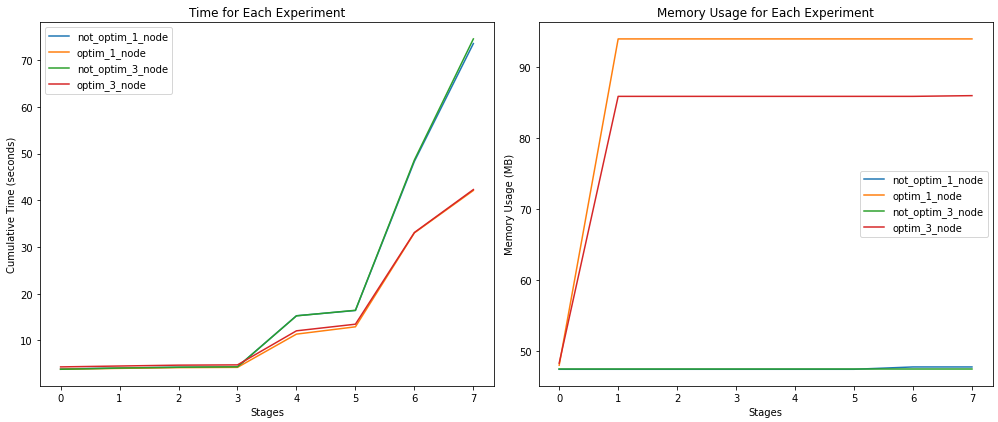
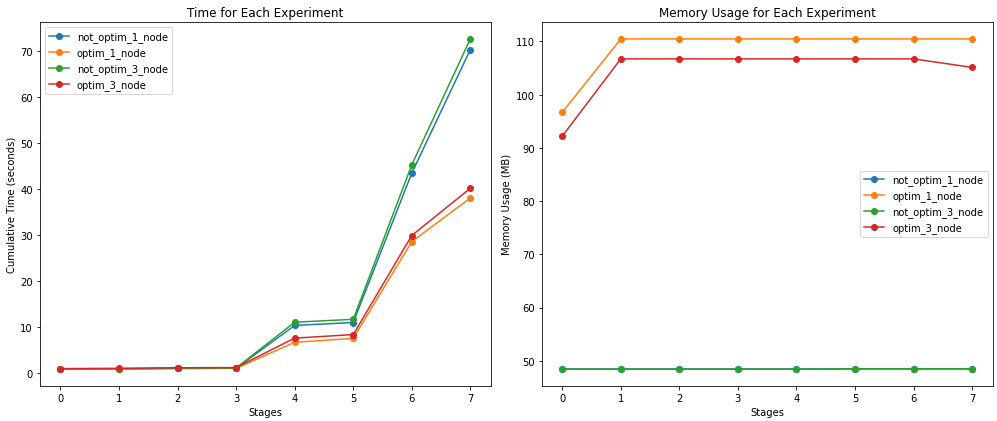
multiple experiments

diff --git a/spark_app.py b/spark_app.py
@@ -3,6 +3,7 @@ import psutil
 import logging
 import os
 import json
+import numpy as np
 from pyspark.sql import SparkSession
 from pyspark.ml.feature import StringIndexer, Tokenizer, StopWordsRemover, HashingTF, IDF
 from pyspark.ml.classification import LogisticRegression
@@ -48,98 +49,107 @@ def main(num_nodes: int, optimize: bool):
 
     spark.sparkContext.setLogLevel("ERROR")
 
-    cumulative_times = []
-    total_mems = []
-    total_time = 0
+    all_times, all_mems = [], []
 
-    @measure_time
-    def load_data():
-        df = spark.read.parquet("hdfs://namenode:9001/user/root/data/Musical_Instruments_5.parquet")
-        return df.dropna(subset=['reviewText']).drop("vote").drop("style").drop("image")
+    for _ in range(20): # num experiments
+        cumulative_times = []
+        total_mems = []
+        total_time = 0
 
-    df = load_data()
-    if optimize:
-        if int(num_nodes) > 1:
-            df = df.repartition(int(num_nodes)).cache()
-        else:
-            df = df.cache()
-    df.show()
-    logger.info("Data loading is done.\n")
-    # df.printSchema()
+        @measure_time
+        def load_data():
+            df = spark.read.parquet("hdfs://namenode:9001/user/root/data/Musical_Instruments_5.parquet")
+            return df.dropna(subset=['reviewText']).drop("vote").drop("style").drop("image")
 
-    if optimize:
-        rdd = spark.sparkContext.parallelize(df.collect(), numSlices=10)
-        df = spark.createDataFrame(rdd, schema=df.schema)
-        df.cache()
+        df = load_data()
+        if optimize:
+            if int(num_nodes) > 1:
+                df = df.repartition(int(num_nodes)).cache()
+            else:
+                df = df.cache()
+        df.show()
+        logger.info("Data loading is done.\n")
+        # df.printSchema()
 
-    @measure_time
-    def tokenize_data(df):
-        tokenizer = Tokenizer(inputCol="reviewText", outputCol="words")
-        return tokenizer.transform(df)
+        if optimize:
+            rdd = spark.sparkContext.parallelize(df.collect(), numSlices=10)
+            df = spark.createDataFrame(rdd, schema=df.schema)
+            df.cache()
 
-    tokenized_df = tokenize_data(df)
-    logger.info("Tokenization is done.\n")
+        @measure_time
+        def tokenize_data(df):
+            tokenizer = Tokenizer(inputCol="reviewText", outputCol="words")
+            return tokenizer.transform(df)
 
-    @measure_time
-    def remove_stopwords(df):
-        remover = StopWordsRemover(inputCol="words", outputCol="filtered_words")
-        return remover.transform(df)
+        tokenized_df = tokenize_data(df)
+        logger.info("Tokenization is done.\n")
 
-    filtered_df = remove_stopwords(tokenized_df)
-    logger.info("Stopwords removing is done.\n")
+        @measure_time
+        def remove_stopwords(df):
+            remover = StopWordsRemover(inputCol="words", outputCol="filtered_words")
+            return remover.transform(df)
 
-    @measure_time
-    def apply_hashing_tf(df):
-        hashingTF = HashingTF(inputCol="filtered_words", outputCol="raw_features", numFeatures=10000)
-        return hashingTF.transform(df)
+        filtered_df = remove_stopwords(tokenized_df)
+        logger.info("Stopwords removing is done.\n")
 
-    hashed_df = apply_hashing_tf(filtered_df)
-    logger.info("TF calculating is done.\n")
+        @measure_time
+        def apply_hashing_tf(df):
+            hashingTF = HashingTF(inputCol="filtered_words", outputCol="raw_features", numFeatures=10000)
+            return hashingTF.transform(df)
 
-    @measure_time
-    def apply_idf(df):
-        idf = IDF(inputCol="raw_features", outputCol="features")
-        idf_model = idf.fit(df)
-        return idf_model.transform(df)
+        hashed_df = apply_hashing_tf(filtered_df)
+        logger.info("TF calculating is done.\n")
 
-    rescaled_df = apply_idf(hashed_df)
-    logger.info("IDF calculating is done.\n")
+        @measure_time
+        def apply_idf(df):
+            idf = IDF(inputCol="raw_features", outputCol="features")
+            idf_model = idf.fit(df)
+            return idf_model.transform(df)
 
-    @measure_time
-    def index_labels(df):
-        label_indexer = StringIndexer(inputCol="overall", outputCol="label")
-        return label_indexer.fit(df).transform(df)
+        rescaled_df = apply_idf(hashed_df)
+        logger.info("IDF calculating is done.\n")
 
-    indexed_df = index_labels(rescaled_df)
-    logger.info("Label encoding is done.\n")
+        @measure_time
+        def index_labels(df):
+            label_indexer = StringIndexer(inputCol="overall", outputCol="label")
+            return label_indexer.fit(df).transform(df)
 
-    @measure_time
-    def train_model(df):
-        lr = LogisticRegression(featuresCol="features", labelCol="label", maxIter=10)
-        #pipeline = Pipeline(stages=[tokenizer, remover, hashingTF, idf, label_indexer, lr])
-        return lr.fit(df)
+        indexed_df = index_labels(rescaled_df)
+        logger.info("Label encoding is done.\n")
 
-    (train_df, test_df) = indexed_df.randomSplit([0.8, 0.2], seed=42)
-    if optimize:
-        train_df = train_df.cache()
-        test_df = test_df.cache()
-    model = train_model(train_df)
-    logger.info("Model training is done.\n")
+        @measure_time
+        def train_model(df):
+            lr = LogisticRegression(featuresCol="features", labelCol="label", maxIter=10)
+            #pipeline = Pipeline(stages=[tokenizer, remover, hashingTF, idf, label_indexer, lr])
+            return lr.fit(df)
 
-    @measure_time
-    def evaluate_model(model, df):
-        predictions = model.transform(df)
-        evaluator = MulticlassClassificationEvaluator(labelCol="label", predictionCol="prediction", metricName="accuracy")
-        accuracy = evaluator.evaluate(predictions)
-        logger.info(f"Model accuracy: {accuracy:.4f}")
-        return predictions
+        (train_df, test_df) = indexed_df.randomSplit([0.8, 0.2], seed=42)
+        if optimize:
+            train_df = train_df.cache()
+            test_df = test_df.cache()
+        model = train_model(train_df)
+        logger.info("Model training is done.\n")
 
-    predictions = evaluate_model(model, test_df)
-    logger.info("Model evaluation is done.\n")
-    predictions.select("reviewText", "overall", "prediction").show()
+        @measure_time
+        def evaluate_model(model, df):
+            predictions = model.transform(df)
+            evaluator = MulticlassClassificationEvaluator(labelCol="label", predictionCol="prediction", metricName="accuracy")
+            accuracy = evaluator.evaluate(predictions)
+            logger.info(f"Model accuracy: {accuracy:.4f}")
+            return predictions
 
-    logger.info(f"Cumulative times: {cumulative_times}")
-    logger.info(f"Memory consumtion per step: {total_mems}")
+        predictions = evaluate_model(model, test_df)
+        logger.info("Model evaluation is done.\n")
+        predictions.select("reviewText", "overall", "prediction").show()
+
+        logger.info(f"Cumulative times: {cumulative_times}")
+        logger.info(f"Memory consumtion per step: {total_mems}")
+        
+        all_times.append(cumulative_times)
+        all_mems.append(total_mems)
+
+    cumulative_times = list(np.mean(np.array(all_times), axis=0))
+    total_mems = list(np.mean(np.array(all_mems), axis=0))
 
     metrics = {
             "time": cumulative_times,
